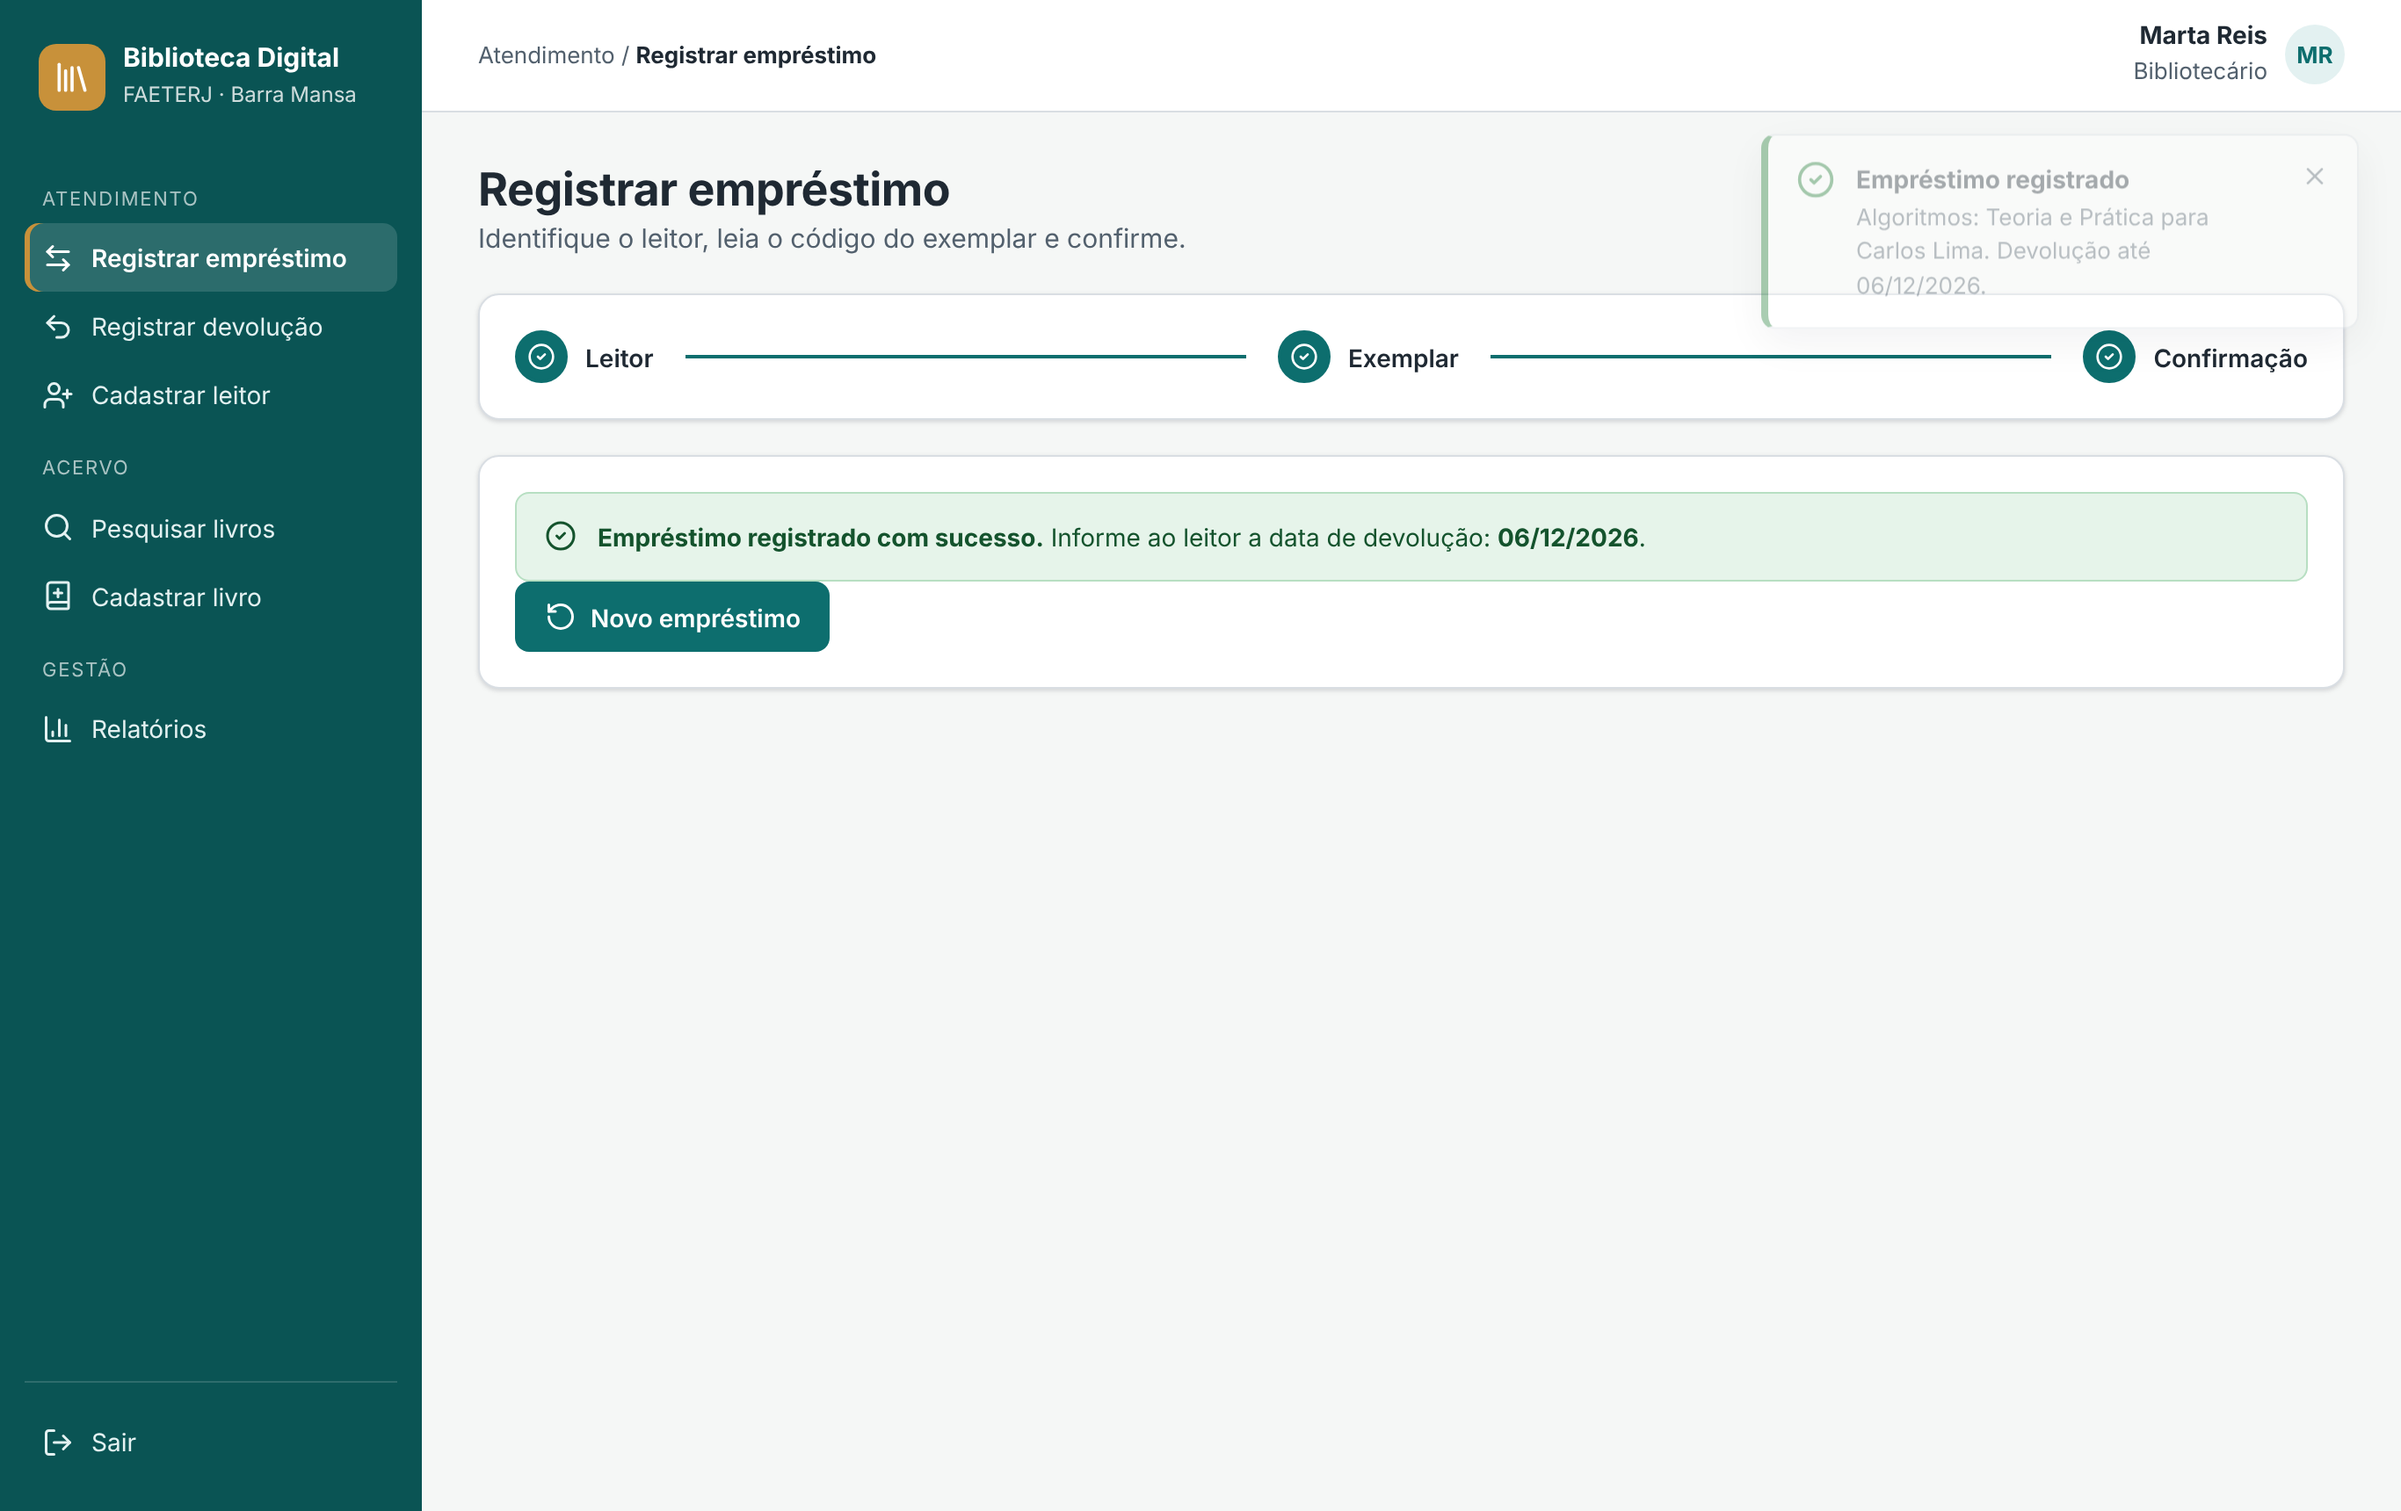
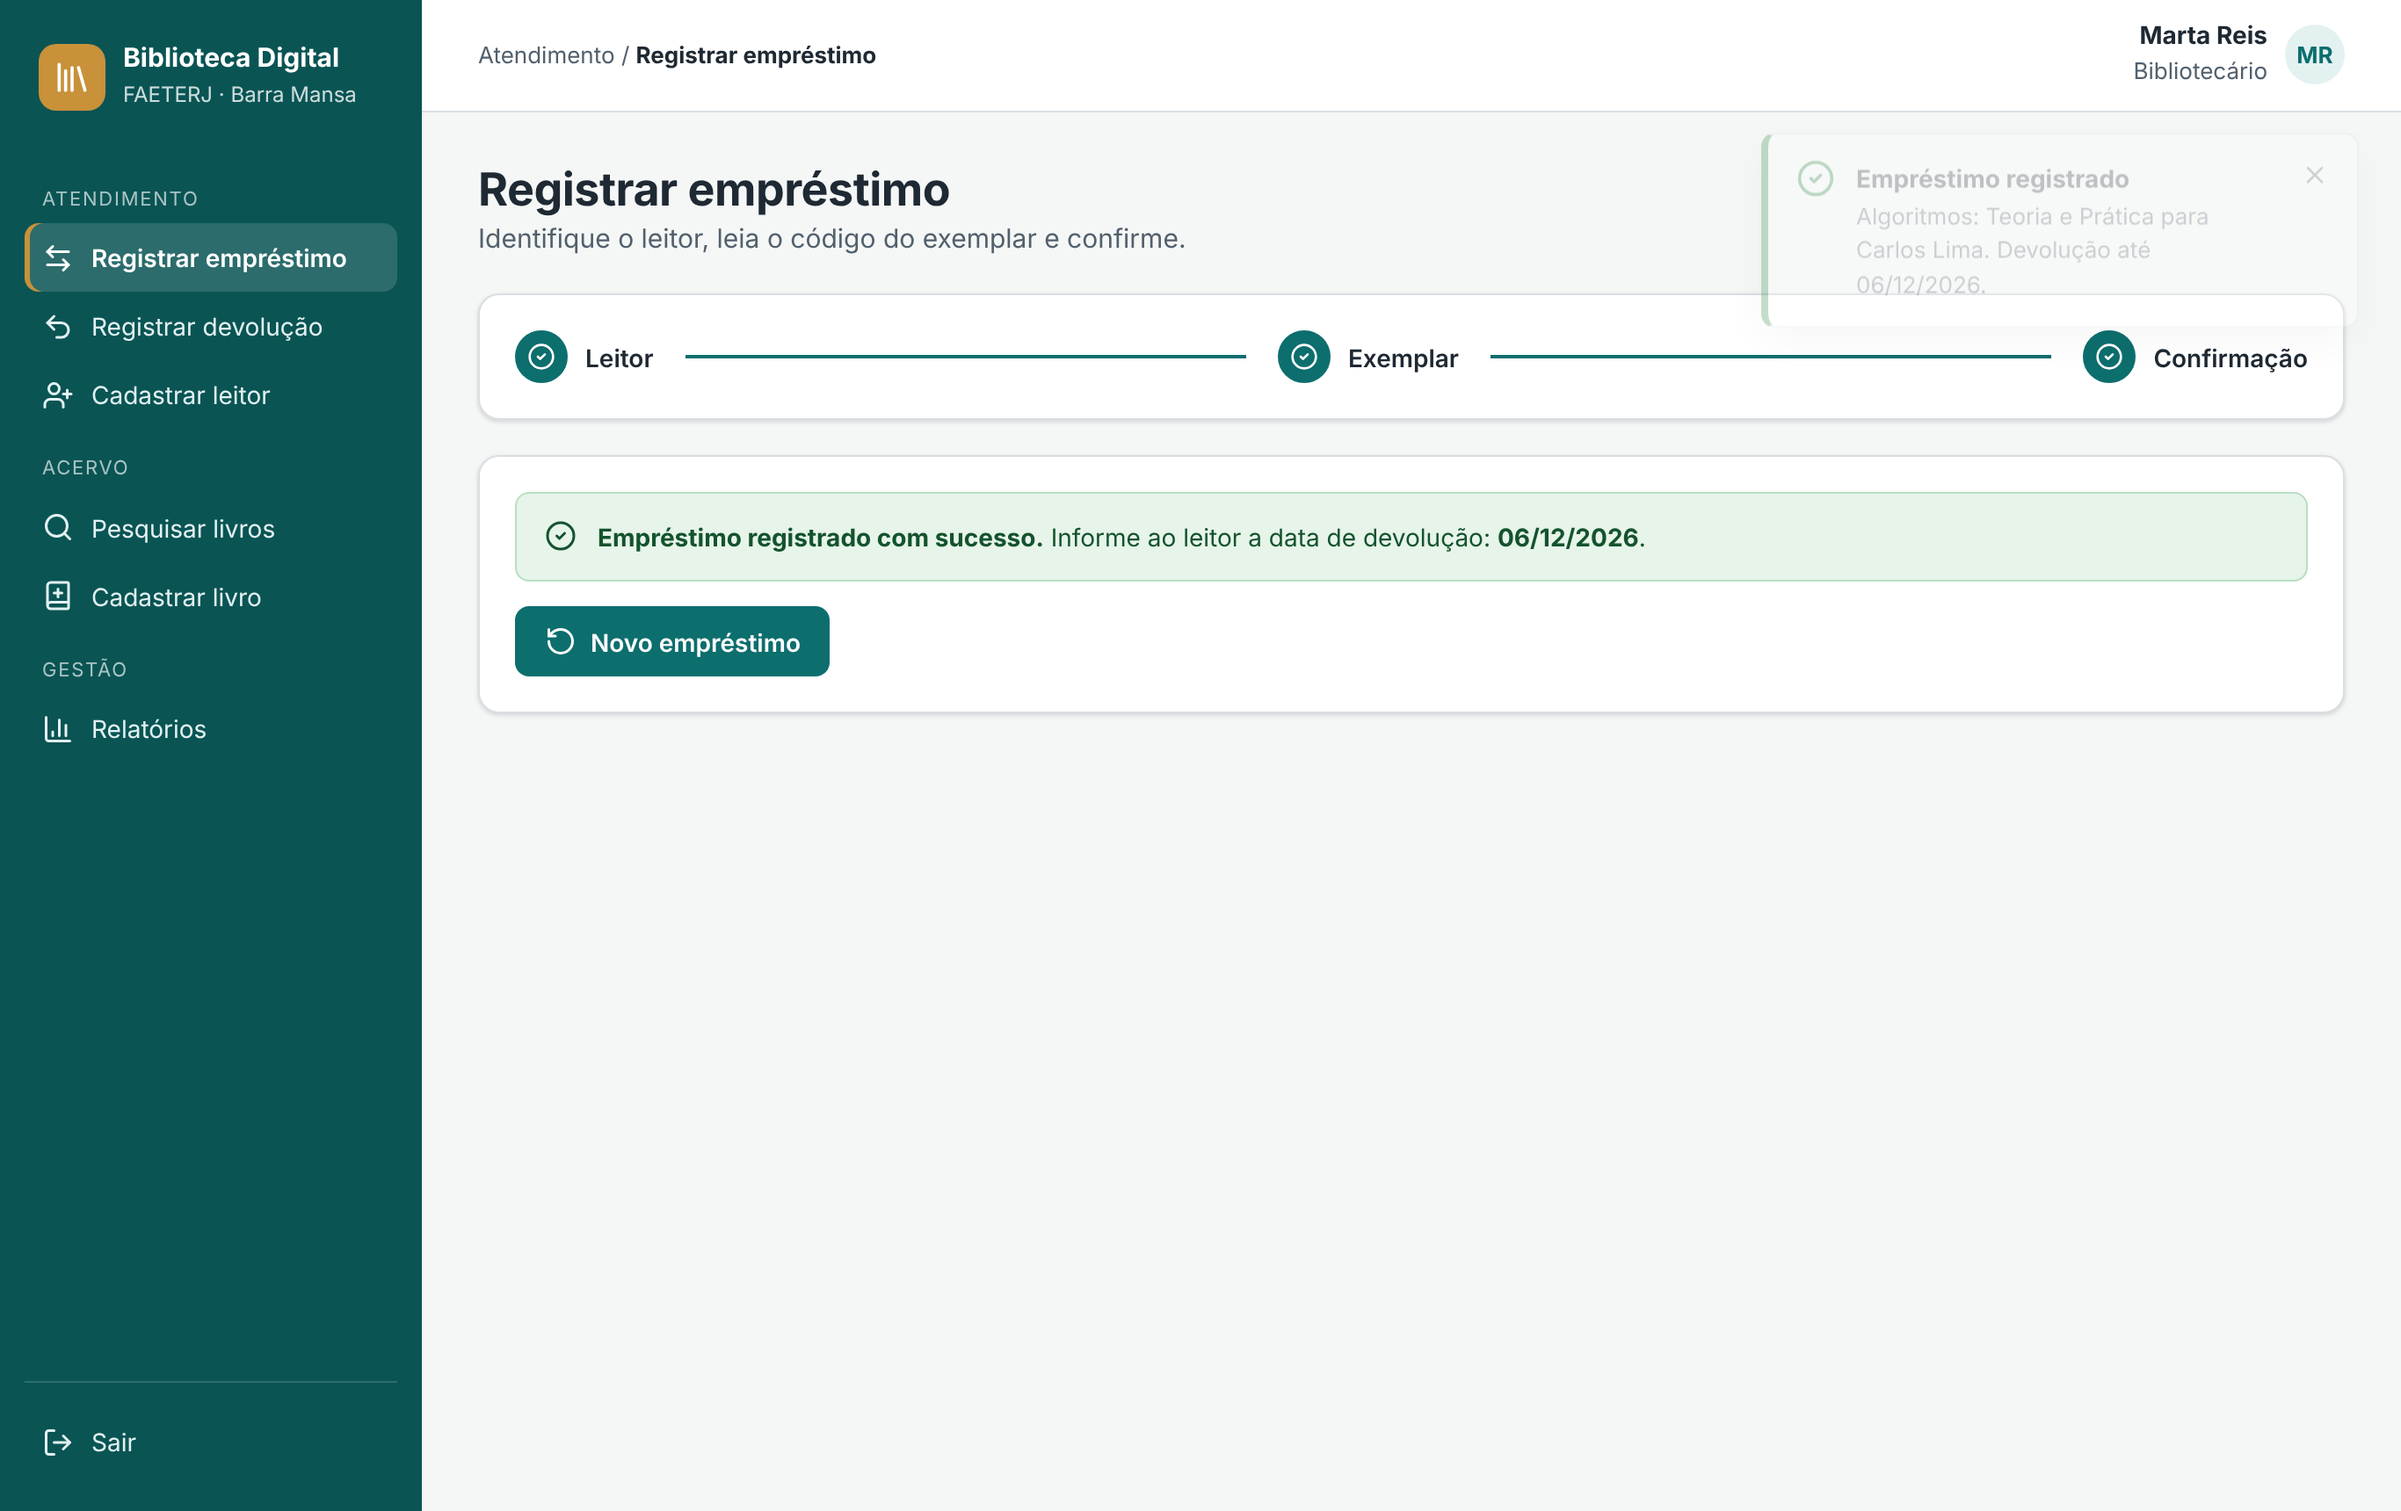
Espaço entre alertas e campos nos formulários; capturas atualizadas
Claude-Session: https://claude.ai/code/session_01B1oR2ptPVvw6xEiTLoZ46c

Changed region(s): [[0.1867, 0.3698, 0.3734, 0.4622], [0.84, 0.0924, 0.8712, 0.1233], [0.7778, 0.0924, 0.8089, 0.1233]]

diff --git a/frontend/src/styles/global.css b/frontend/src/styles/global.css
@@ -84,6 +84,7 @@ h3 { font-size: 16px; font-weight: 600; }
 .b-info { background: var(--cor-info-bg); color: var(--cor-info); }
 .b-neu { background: #EEF1F4; color: var(--cor-texto-sec); }
 .alert { display: flex; gap: 12px; align-items: flex-start; padding: 14px 16px; border-radius: var(--raio); font-size: 14px; border: 1px solid; }
+.card .alert { margin-bottom: 14px; }
 .alert svg { flex: none; margin-top: 1px; }
 .a-err { background: var(--cor-erro-bg); border-color: #F5C2BC; color: #7A1A12; }
 .a-ok { background: var(--cor-sucesso-bg); border-color: #B7DFC2; color: #14532D; }

diff --git a/docs/testes/fluxos.js b/docs/testes/fluxos.js
@@ -46,6 +46,7 @@ async function main() {
   await caso('Login: senha errada mostra mensagem genérica', async () => {
     await login('ana.souza@aluno.faeterj.edu.br', 'errada');
     await esperarTexto('E-mail ou senha');
+    await page.waitForTimeout(400); // espera a transição do botão terminar
     await shot('01-login-erro');
   });
   await caso('Login: usuário desativado (RN05) é bloqueado', async () => {
